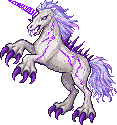
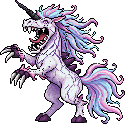
The Mythiclaw: three fresh designs to the user's brief (a split skull of a jaw running back under the eye, raking sickle claws, a black spiral horn, spikes, veins and a pastel mane), and the Labyrinth Sprite's art is the user's pick, the gaunt goblin fairy with glowing eyes. The first Mythiclaw opti

diff --git a/lib/sprites/creatures.ts b/lib/sprites/creatures.ts
@@ -19,7 +19,7 @@ const ART_SIZES: Record<string, [number, number]> = {
   moss_wolf: [82, 65],
   amber_wasp: [62, 55],
   bellow_toad: [90, 68],
-  dire_wolf: [116, 125], // the Mythiclaw (2026-11-26; the Dire Wolf's old art is rooms/dire_wolf_scene.png)
+  dire_wolf: [120, 118], // the Mythiclaw (2026-11-26; the Dire Wolf's old art is rooms/dire_wolf_scene.png)
   ironhide: [122, 87],
   cave_bat: [60, 63], // the Cave Goblin (was the Cave Bat; the id stays for old saves)
   rust_beetle: [81, 68],
@@ -36,7 +36,7 @@ const ART_SIZES: Record<string, [number, number]> = {
   glob: [78, 63],
   dreadpox: [83, 92],
   gleamling: [52, 58],
-  labyrinth_sprite: [114, 115],
+  labyrinth_sprite: [93, 120],
   plague_rat: [64, 59],
   rotgut_fly: [62, 62],
   deep_angler: [75, 71],

diff --git a/public/sprites/PIXELLAB.md b/public/sprites/PIXELLAB.md
@@ -41,8 +41,8 @@ the PNG here.
 | creatures/troglodyte_brute.png | job 67ed269a-ca13-4765-83fe-b35df2944608 (pixen 128×128, gallery c335fd01-ea0d-5785-9bb3-faf5f7481f87) |
 | creatures/gravewarden.png | job 8cd2d3c2-fcb0-40b4-a98b-b79505ae73b1 (pixen 128×128, gallery bde346e7-3644-5a5e-bdd9-8584e533f2a6) |
 | creatures/hexed_puppet.png | edit_image_pro_flash 54cf04de-84a8-4d7d-b7e3-9524eba3d90e (a whole marionette cross) of pixen cc79a273-a6d2-476f-ad22-1e19d5242628 |
-| creatures/dire_wolf.png | the Mythiclaw (2026-11-26; the Dire Wolf's art moved to rooms/dire_wolf_scene.png), restyled to the user's reference (art/new-creatures-2026-11-26/ref): edit_image_pro_flash 6f0dbea2-52d7-402c-a443-04532a12f2e7 (heavy hooked claws, the raised pair splayed) of 73ddf64f-9ba9-473c-bf27-38dfdc6278c9 (thin glowing horn) of 0cdac18a-04e7-4dae-99ae-5bf7e993f0c3 (the reference's look) of the rearing edit ea24f831-e781-43a5-8db0-5b98067ff58f; option A of three (stand-in until the user picks) |
-| creatures/labyrinth_sprite.png | pixen 86998418-ac51-4bd5-947b-a732de99fda2; option A of three in art/new-creatures-2026-11-26 (stand-in until the user picks) |
+| creatures/dire_wolf.png | the Mythiclaw (2026-11-26; the Dire Wolf's art moved to rooms/dire_wolf_scene.png), restyled to the user's reference (art/new-creatures-2026-11-26/ref): a fresh design to the user's brief (art/new-creatures-2026-11-26/README.md): edit_image_pro_flash 74bf4c14-0a0c-4ffe-91e0-c52caf8b7e8b (black spiral horn, jagged spine row) of pixen 16312154-49b3-4bf8-aa53-e9aff0e86de6; option A of three (stand-in until the user picks) |
+| creatures/labyrinth_sprite.png | edit_image_pro_flash c5ece9ed-93db-4bfb-ac56-76ac7a1ec93c (white-gold glowing eyes) of pixen 399499dc-a679-4dc3-8a3d-d87dc22c41ad; option C, the user's pick (2026-11-26) |
 | creatures/deep_angler.png | gallery:aa6e8bcd-c214-4545-8890-8c9f9b18fcb7 (raw generation; trimmed + mirrored here) |
 | creatures/tunnel_wyrm.png | gallery:6b352516-6423-470d-8f0c-1b50394f10a9 (raw generation; trimmed + mirrored here) |
 | creatures/thunderhead.png | gallery:7903642a-e4f1-49e8-892f-9f8df1cbc2cb (raw generation; trimmed + mirrored here) |

diff --git a/art/new-creatures-2026-11-26/README.md b/art/new-creatures-2026-11-26/README.md
@@ -20,4 +20,21 @@ veins). The first look's finalists are in finals/first-look/.
 
 **Claws (2026-11-26):** the user picked C (V2) but wanted "more strong looking claws and more aggressive on the ones that are
 raised … too bird claw like, go more like the GPT rendition". round7.png: K1 (by the reference image), K2, K3 (text edits).
-**The Mythiclaw finalists now:** A = K3 (biggest hooked claws), B = K2, C = K1 (closest to the old C).
+Those claw versions are in finals/second-look/.
+
+**Starting fresh (2026-11-26):** the user: "the claws do not look aggressive in any way … the mouth should look larger, they look too
+horse like … almost go back to under the eye, almost like the front of the head is split in two … the horn darker, more black with
+some purple … starting new probably makes more sense." The brief every draft was drawn to:
+
+> The Mythiclaw: a monstrous, corrupted holy unicorn rearing on its hind legs. Lean muscular body, cracked lilac-white coat with
+> glowing violet veins over body and legs; a row of jagged dark-purple spikes down the spine. Not a horse's head: the jaw splits
+> open wide, the mouth running back to just under the eye as if the front of the skull is split in two, lined with long needle
+> fangs. Glowing violet eyes. One long thin spiralled horn, black with purple glints. Long wild mane and tail in pastel blue,
+> pink and purple. No hooves: huge predator claws, thick dark-purple digits ending in long curved sickle talons; the raised front
+> claws splayed open, reaching to rake. Menacing, dark fantasy.
+
+round8.png and round9.png: 12 fresh pixen drafts (N1–N12; the "head splits into gaping jaws" wording worked, "rearing" pulled
+back towards hooves). The judge's 3, fixed (round10.png, before and after): **the Mythiclaw finalists now**, A = X4 (N4: split
+jaw, raised claw, black spiral horn), B = X3 (N3 reared up, long locks), C = X9 (N9 with sickle talons on all four feet).
+
+**The Labyrinth Sprite: C, the user's pick** (2026-11-26), in the game.
